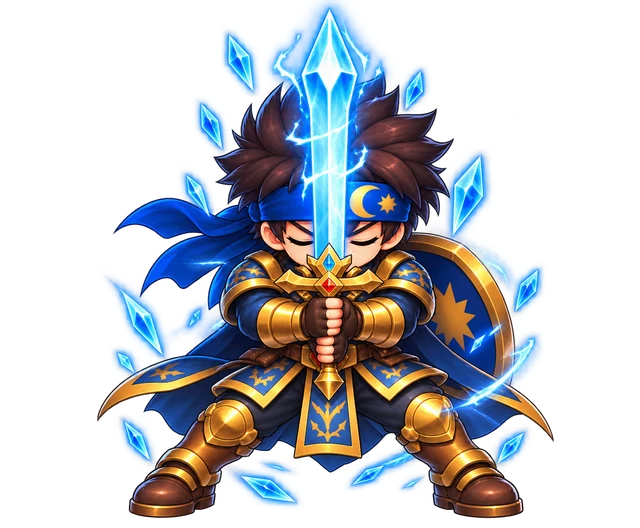
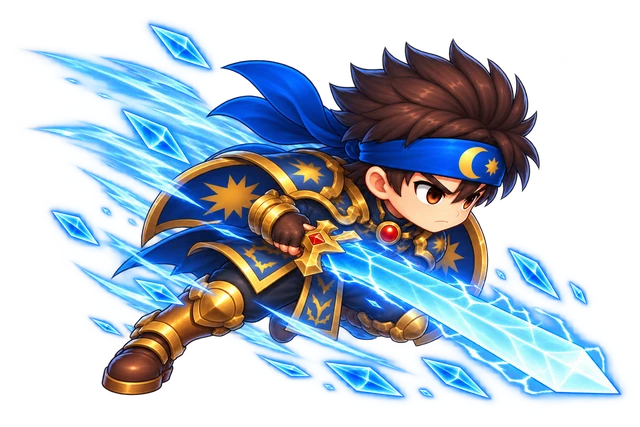
fix: remap Wira Chibi to original Wira asset slots

diff --git a/index.html b/index.html
@@ -8,8 +8,8 @@
 <meta name="apple-mobile-web-app-capable" content="yes">
 <meta name="apple-mobile-web-app-status-bar-style" content="black-translucent">
 <meta name="apple-mobile-web-app-title" content="Pahlawan Angka"><link rel="manifest" href="manifest.webmanifest?v=3.10.0"><link rel="icon" type="image/png" sizes="32x32" href="assets/icons/pa-32.png?v=3.10.0"><link rel="icon" type="image/png" sizes="64x64" href="assets/icons/pa-64.png?v=3.10.0"><link rel="apple-touch-icon" sizes="180x180" href="assets/icons/pa-180.png?v=3.10.0">
-<title>Pahlawan Angka</title><link rel="stylesheet" href="css/action-variety-v3.30.0.css?v=3.62.10"><link rel="stylesheet" href="css/demo-mode-v3.56.0.css?v=3.56.0"><link rel="stylesheet" href="css/hero-wira-finisher-v1.0.0.css?v=3.62.9"><link rel="stylesheet" href="css/hero-sidma-v1.0.0.css?v=3.60.1"><link rel="stylesheet" href="css/hero-bunga-v2.0.0.css?v=3.59.1"><link rel="stylesheet" href="css/hub-hero-switch-v1.0.0.css?v=3.55.0"><link rel="stylesheet" href="css/effort-restu-v3.32.0.css?v=3.32.0"><link rel="stylesheet" href="css/finisher-auras-v3.8.7.css?v=3.8.7">
-<script defer src="js/action-variety-v3.30.0.js?v=3.62.10"></script><script defer src="js/demo-mode-v3.56.0.js?v=3.57.3"></script><script defer src="js/hero-wira-finisher-v1.0.0.js?v=3.62.9"></script><script defer src="js/hero-sidma-v1.0.0.js?v=3.60.1"></script><script defer src="js/hero-bunga-v2.0.0.js?v=3.59.1"></script><script defer src="js/hub-hero-switch-v1.0.0.js?v=3.62.9"></script><script defer src="js/effort-guard-v3.32.0.js?v=3.32.0"></script><link rel="stylesheet" href="css/finisher-cinematic-v3.8.8.css?v=3.8.16"><link rel="stylesheet" href="css/cloud-auth-v3.15.0.css?v=3.16.6">
+<title>Pahlawan Angka</title><link rel="stylesheet" href="css/action-variety-v3.30.0.css?v=3.62.11"><link rel="stylesheet" href="css/demo-mode-v3.56.0.css?v=3.56.0"><link rel="stylesheet" href="css/hero-wira-finisher-v1.0.0.css?v=3.62.9"><link rel="stylesheet" href="css/hero-sidma-v1.0.0.css?v=3.60.1"><link rel="stylesheet" href="css/hero-bunga-v2.0.0.css?v=3.59.1"><link rel="stylesheet" href="css/hub-hero-switch-v1.0.0.css?v=3.55.0"><link rel="stylesheet" href="css/effort-restu-v3.32.0.css?v=3.32.0"><link rel="stylesheet" href="css/finisher-auras-v3.8.7.css?v=3.8.7">
+<script defer src="js/action-variety-v3.30.0.js?v=3.62.11"></script><script defer src="js/demo-mode-v3.56.0.js?v=3.57.3"></script><script defer src="js/hero-wira-finisher-v1.0.0.js?v=3.62.9"></script><script defer src="js/hero-sidma-v1.0.0.js?v=3.60.1"></script><script defer src="js/hero-bunga-v2.0.0.js?v=3.59.1"></script><script defer src="js/hub-hero-switch-v1.0.0.js?v=3.62.9"></script><script defer src="js/effort-guard-v3.32.0.js?v=3.32.0"></script><link rel="stylesheet" href="css/finisher-cinematic-v3.8.8.css?v=3.8.16"><link rel="stylesheet" href="css/cloud-auth-v3.15.0.css?v=3.16.6">
 <script defer src="https://cdn.jsdelivr.net/npm/@supabase/supabase-js@2.111.0/dist/umd/supabase.min.js" crossorigin="anonymous"></script><link rel="stylesheet" href="css/beta-trust-v3.29.0.css?v=3.29.0">
 <script defer src="js/beta-trust-v3.29.0.js?v=3.29.0"></script><script defer src="js/qsv2-beta-rollout-v3.42.0.js?v=3.52.0"></script><script defer src="js/cloud.js?v=3.56.0"></script><script defer src="js/qsv2-shadow-sync-v3.37.0.js?v=3.37.0"></script><script defer src="js/qsv2-pilot-sync-v3.40.0.js?v=3.40.0"></script><script defer src="js/commercial-foundation-v3.25.0.js?v=3.53.0"></script><script defer src="js/guardian-onboarding-v3.25.1.js?v=3.62.9"></script><script defer src="js/custom-picker-v3.25.6.js?v=3.25.6"></script><link rel="stylesheet" href="css/google-auth-v3.25.2.css?v=3.25.2"><link rel="stylesheet" href="css/parent-dashboard-v3.25.4.css?v=3.25.4"><link rel="stylesheet" href="css/kssr-question-v3.9.0.css?v=3.10.0"><link rel="stylesheet" href="css/visual-coach-v3.16.0.css?v=3.17.0"><link rel="stylesheet" href="css/hint-overlay-v3.28.1.css?v=3.28.1"><link rel="stylesheet" href="css/commercial-foundation-v3.25.0.css?v=3.53.0"><link rel="stylesheet" href="css/guardian-onboarding-v3.25.1.css?v=3.26.4"><link rel="stylesheet" href="css/parent-pin-recovery-v3.27.3.css?v=3.27.3"><link rel="stylesheet" href="css/game.css?v=3.14.1"><link rel="stylesheet" href="css/phase-3.6.4.css"><link rel="stylesheet" href="css/phase-3.6.6.css?v=3.6.7"><link rel="stylesheet" href="css/phase-3.6.8-animation.css?v=3.6.9"><link rel="stylesheet" href="css/login-buttons-v3.7.1.css?v=3.7.1"><link rel="stylesheet" href="css/battlefield-motion-v3.7.2.css?v=3.7.2"><link rel="stylesheet" href="css/battlefield-depth-v3.7.3.css?v=3.7.3"><link rel="stylesheet" href="css/pet-monster-motion-v3.7.4.css?v=3.7.4"><link rel="stylesheet" href="css/mobile-battle-v3.7.5.css?v=3.7.5"><link rel="stylesheet" href="css/combat-fov-v3.7.6.css?v=3.7.6"><link rel="stylesheet" href="css/battle-flow-v3.7.7.css?v=3.7.7"><link rel="stylesheet" href="css/boss-motion-v3.7.9.css?v=3.8.15"><link rel="stylesheet" href="css/coach-mascot-v3.8.1.css?v=3.8.3"><link rel="stylesheet" href="css/responsive-modes-v3.8.2.css?v=3.8.3"><link rel="stylesheet" href="css/pet-sizing-v3.8.21.css?v=3.8.21"><link rel="stylesheet" href="css/battle-polish-v3.8.22.css?v=3.8.22"><link rel="stylesheet" href="css/battle-scene-v3.8.25.css?v=3.8.25"><link rel="stylesheet" href="css/coach-teaching-v3.8.26.css?v=3.8.26"><link rel="stylesheet" href="css/battle-scene-v3.8.27.css?v=3.8.27"><link rel="stylesheet" href="css/battle-scene-v3.8.28.css?v=3.8.28"><link rel="stylesheet" href="css/pwa-v3.8.29.css?v=3.8.29"><link rel="stylesheet" href="css/guardian-focus-v3.8.30.css?v=3.8.30"><link rel="stylesheet" href="css/hero-pose-normalization-v3.8.31.css?v=3.33.7"><link rel="stylesheet" href="css/battle-fix-v3.9.1.css?v=3.10.0"><link rel="stylesheet" href="css/battle-fix-v3.11.css?v=3.11.0"><link rel="stylesheet" href="css/pet-staging-v3.14.3.css?v=3.14.3"><link rel="stylesheet" href="css/hub-adventure-v3.24.11.css?v=3.24.14"><link rel="stylesheet" href="css/theme-controls-v3.25.5.css?v=3.25.5"><link rel="stylesheet" href="css/custom-picker-v3.25.6.css?v=3.25.6"><link rel="stylesheet" href="css/parent-learning-tools-v3.26.0.css?v=3.26.0"><link rel="stylesheet" href="css/question-card-theme-v1.0.0.css?v=3.55.0"><link rel="stylesheet" href="css/combat-motion-v1.css?v=3.57.5"><link rel="stylesheet" href="css/battle-story-v3.60.0.css?v=3.60.0"></head><body data-screen="login"><div class="app">
 <header class="appHeader"><div class="brand"><span class="brandMark" aria-hidden="true"><img src="assets/icons/pa-64.png?v=3.8.31" alt=""></span><span>Pahlawan Angka</span></div><div class="grow"></div><button id="devQuickBtn" class="devQuickBtn hidden" onclick="openDevPanel()" aria-label="Developer Mode">DEV</button><button class="soundBtn" data-sound-toggle onclick="toggleSound()" aria-label="Bunyi">🔊</button><span class="chip badge">Coach RPG</span></header>
@@ -139,4 +139,4 @@
 <div id="rewardToast" class="rewardToast"></div>
 <div id="guardianFocusOverlay" class="guardianFocusOverlay hidden" role="dialog" aria-modal="true" aria-labelledby="guardianFocusTitle"><div class="guardianFocusCard"><div class="eyebrow">LATIHAN FOKUS PENJAGA</div><h2 id="guardianFocusTitle">Kemahiran</h2><p id="guardianFocusEvidence"></p><p class="guardianFocusNote">Soalan dikunci pada kemahiran ini. Cikgu Dimensi akan beri petunjuk bertingkat dan turun kepada contoh lebih mudah apabila perlu.</p><div class="focusCount" aria-label="Bilangan soalan"><button type="button" data-focus-count="5" onclick="chooseGuardianCount(5)">5 soalan</button><button type="button" data-focus-count="10" onclick="chooseGuardianCount(10)">10 soalan</button><button type="button" data-focus-count="15" onclick="chooseGuardianCount(15)">15 soalan</button></div><div class="guardianFocusActions"><button class="btn primary" onclick="startGuardianFocus()">Mulakan latihan</button><button class="btn ghost" onclick="closeGuardianFocus()">Batal</button></div></div></div>
 </div>
-<script src="data/kssr/knowledge-graph.js?v=3.10.0"></script><script src="data/kssr/mastery-knowledge-v1.js?v=3.10.0"></script><script src="data/kssr/alignment-v3.9.0.js?v=3.10.0"></script><script src="data/kssr/d3-topic7-curriculum-correction-v3.38.0.js?v=3.38.0"></script><script src="data/kssr/d3-topic7-evidence-epoch-v3.39.0.js?v=3.39.0"></script><script src="data/kssr/d3-topic7-live-cutover-v3.40.0.js?v=3.52.0"></script><script src="data/kssr/d3-nonT7-live-isolation-v1.0.0.js?v=3.52.0"></script><script src="questions/helpers.js?v=3.56.5"></script><script src="questions/d1/core.js?v=3.10.0"></script><script src="questions/d2/topic-1.js"></script><script src="questions/d2/topic-2.js"></script><script src="questions/d2/topic-3.js"></script><script src="questions/d2/topic-4.js"></script><script src="questions/d2/topic-5.js?v=3.56.3"></script><script src="questions/d2/topic-6.js"></script><script src="questions/d2/topic-7.js"></script><script src="questions/d2/topic-8.js"></script><script src="questions/d3/core.js?v=3.8.0"></script><script src="questions/d4/core.js?v=3.8.0"></script><script src="questions/d5/core.js?v=3.14.5"></script><script src="questions/d6/core.js?v=3.8.30"></script><script src="questions/kssr-archetypes-v3.9.0.js?v=3.12.0"></script><script src="questions/kssr-content-v3.11.js?v=3.55.0"></script><script src="questions/v2/dist/runtime.js?v=3.52.0"></script><script src="questions/v2/engine/d3-rollout.js?v=3.52.0"></script><script src="questions/v2/engine/legacy-adapter.js?v=3.52.0"></script><script src="questions/index.js?v=3.40.0"></script><script src="js/engine/telemetry.js?v=3.56.0"></script><script src="js/engine/intervention.js?v=3.57.1"></script><script src="js/engine/frontier.js?v=3.57.1"></script><script src="js/engine/adaptive.js?v=3.62.7"></script><script src="js/heroes.js?v=3.62.10"></script><script src="js/progression.js?v=3.62.9"></script><script src="js/rewards-v2.js?v=3.14.3"></script><script src="js/learning.js?v=3.56.3"></script><script src="js/audio.js?v=3.52.9"></script><script src="js/combat-motion-v1.js?v=3.62.10"></script><script src="js/battle.js?v=3.62.10"></script><script src="js/parent.js?v=3.57.1"></script><script src="js/parent-learning-tools-v3.26.0.js?v=3.56.5"></script><script src="js/guardian-focus.js?v=3.57.3"></script><script src="js/app.js?v=3.62.9"></script><script src="js/battle-story-v3.60.0.js?v=3.60.0"></script><script src="js/phase-3.6.4.js"></script><script src="js/dev-cikgu-dimensi-v3.24.10.js"></script><script src="js/dev-qsv2-v3.36.0.js?v=3.36.0"></script><script src="js/dev-qsv2-live-v3.40.0.js?v=3.52.0"></script><script src="js/version.js?v=3.62.10"></script><script src="js/pwa.js?v=3.62.10"></script></body></html>
+<script src="data/kssr/knowledge-graph.js?v=3.10.0"></script><script src="data/kssr/mastery-knowledge-v1.js?v=3.10.0"></script><script src="data/kssr/alignment-v3.9.0.js?v=3.10.0"></script><script src="data/kssr/d3-topic7-curriculum-correction-v3.38.0.js?v=3.38.0"></script><script src="data/kssr/d3-topic7-evidence-epoch-v3.39.0.js?v=3.39.0"></script><script src="data/kssr/d3-topic7-live-cutover-v3.40.0.js?v=3.52.0"></script><script src="data/kssr/d3-nonT7-live-isolation-v1.0.0.js?v=3.52.0"></script><script src="questions/helpers.js?v=3.56.5"></script><script src="questions/d1/core.js?v=3.10.0"></script><script src="questions/d2/topic-1.js"></script><script src="questions/d2/topic-2.js"></script><script src="questions/d2/topic-3.js"></script><script src="questions/d2/topic-4.js"></script><script src="questions/d2/topic-5.js?v=3.56.3"></script><script src="questions/d2/topic-6.js"></script><script src="questions/d2/topic-7.js"></script><script src="questions/d2/topic-8.js"></script><script src="questions/d3/core.js?v=3.8.0"></script><script src="questions/d4/core.js?v=3.8.0"></script><script src="questions/d5/core.js?v=3.14.5"></script><script src="questions/d6/core.js?v=3.8.30"></script><script src="questions/kssr-archetypes-v3.9.0.js?v=3.12.0"></script><script src="questions/kssr-content-v3.11.js?v=3.55.0"></script><script src="questions/v2/dist/runtime.js?v=3.52.0"></script><script src="questions/v2/engine/d3-rollout.js?v=3.52.0"></script><script src="questions/v2/engine/legacy-adapter.js?v=3.52.0"></script><script src="questions/index.js?v=3.40.0"></script><script src="js/engine/telemetry.js?v=3.56.0"></script><script src="js/engine/intervention.js?v=3.57.1"></script><script src="js/engine/frontier.js?v=3.57.1"></script><script src="js/engine/adaptive.js?v=3.62.7"></script><script src="js/heroes.js?v=3.62.11"></script><script src="js/progression.js?v=3.62.9"></script><script src="js/rewards-v2.js?v=3.14.3"></script><script src="js/learning.js?v=3.56.3"></script><script src="js/audio.js?v=3.52.9"></script><script src="js/combat-motion-v1.js?v=3.62.11"></script><script src="js/battle.js?v=3.62.11"></script><script src="js/parent.js?v=3.57.1"></script><script src="js/parent-learning-tools-v3.26.0.js?v=3.56.5"></script><script src="js/guardian-focus.js?v=3.57.3"></script><script src="js/app.js?v=3.62.9"></script><script src="js/battle-story-v3.60.0.js?v=3.60.0"></script><script src="js/phase-3.6.4.js"></script><script src="js/dev-cikgu-dimensi-v3.24.10.js"></script><script src="js/dev-qsv2-v3.36.0.js?v=3.36.0"></script><script src="js/dev-qsv2-live-v3.40.0.js?v=3.52.0"></script><script src="js/version.js?v=3.62.11"></script><script src="js/pwa.js?v=3.62.11"></script></body></html>

diff --git a/js/combat-motion-v1.js b/js/combat-motion-v1.js
@@ -3,13 +3,9 @@
 (()=>{
  'use strict';
  const byId=id=>document.getElementById(id),cache=new Map();
- const paths={idle:'assets/heroes/wira/idle.webp',ready:'assets/heroes/wira/frames/anticipation-v1.webp',move:'assets/heroes/wira/attack.webp',follow:'assets/heroes/wira/frames/follow-through-v1.webp'};
- const chibiPaths={idle:'assets/heroes/wira-chibi/idle.webp',ready:'assets/heroes/wira-chibi/frames/anticipation-v1.webp',move:'assets/heroes/wira-chibi/attack.webp',follow:'assets/heroes/wira-chibi/frames/follow-through-v1.webp'};
- const contactPaths={
-  wira:{dash:'assets/heroes/wira/frames/attack-dash-v2.webp',arc:'assets/heroes/wira/frames/attack-arc-v2.webp',pulse:'assets/heroes/wira/frames/attack-pulse-v2.webp'},
-  wirachibi:{dash:'assets/heroes/wira-chibi/frames/attack-dash-v2.webp',arc:'assets/heroes/wira-chibi/frames/attack-arc-v2.webp',pulse:'assets/heroes/wira-chibi/frames/attack-pulse-v2.webp'}
- };
- const art={},chibiArt={},wiraContacts={},chibiContacts={},sidmaArt={};let canvas,ctx,active=null,raf=0,observer;
+ const paths={idle:'assets/heroes/wira/idle.webp',ready:'assets/heroes/wira/frames/anticipation-v1.webp',strike:'assets/heroes/wira/frames/attack-arc-v2.webp',follow:'assets/heroes/wira/frames/follow-through-v1.webp'};
+ const chibiPaths={idle:'assets/heroes/wira-chibi/idle.webp',ready:'assets/heroes/wira-chibi/frames/anticipation-v1.webp',strike:'assets/heroes/wira-chibi/frames/attack-arc-v2.webp',follow:'assets/heroes/wira-chibi/frames/follow-through-v1.webp'};
+ const art={},chibiArt={},sidmaArt={};let canvas,ctx,active=null,raf=0,observer;
  const sidmaPaths={idle:'assets/heroes/sidma/idle.webp',ready:'assets/heroes/sidma/frames/attack-stance-v1.webp',dash:'assets/heroes/sidma/frames/skill2-dash-v1.webp',strike:'assets/heroes/sidma/frames/skill2-impact-v1.webp',follow:'assets/heroes/sidma/frames/recovery-v1.webp',cast:'assets/heroes/sidma/frames/cast-start-v1.webp',release:'assets/heroes/sidma/frames/release-v1.webp'};
  // Rumus Sigma's bolt. Kept out of the pose set so a slow decode delays the
  // projectile only, never the whole attack.
@@ -33,17 +29,15 @@
  }
  Object.entries(paths).forEach(([key,src])=>art[key]=load(src));
  Object.entries(chibiPaths).forEach(([key,src])=>chibiArt[key]=load(src));
- Object.entries(contactPaths.wira).forEach(([key,src])=>wiraContacts[key]=load(src));
- Object.entries(contactPaths.wirachibi).forEach(([key,src])=>chibiContacts[key]=load(src));
  Object.entries(sidmaPaths).forEach(([key,src])=>sidmaArt[key]=load(src));
  sidmaBolt=load(sidmaBoltPath);
  function ensure(){
   const arena=byId('battleArena');if(!arena)return null;
   if(!canvas){canvas=document.createElement('canvas');canvas.className='paCombatMotion';canvas.setAttribute('aria-hidden','true');arena.appendChild(canvas);ctx=canvas.getContext('2d');}
-  const rect=arena.getBoundingClientRect(),ratio=Math.min(window.devicePixelRatio||1,2);
+  const rect=arena.getBoundingClientRect(),ratio=Math.min(window.devicePixelRatio||1,3);
   const width=arena.clientWidth,height=arena.clientHeight;
   if(canvas.width!==Math.round(width*ratio)||canvas.height!==Math.round(height*ratio)){canvas.width=Math.round(width*ratio);canvas.height=Math.round(height*ratio)}
-  ctx.setTransform(ratio,0,0,ratio,0,0);
+  ctx.setTransform(ratio,0,0,ratio,0,0);ctx.imageSmoothingEnabled=true;if('imageSmoothingQuality' in ctx)ctx.imageSmoothingQuality='high';
   return {arena,rect,width,height};
  }
  function clear(){if(ctx)ctx.clearRect(0,0,canvas.width,canvas.height)}
@@ -57,7 +51,7 @@
   return {x:left+asset.w*scale/2,y:top+asset.h*scale,h:asset.h*scale,w:asset.w*scale};
  }
  function shadow(x,y,w,h,opacity){ctx.save();ctx.globalAlpha=opacity;ctx.translate(x,y);ctx.scale(Math.max(1,w),Math.max(1,h));const g=ctx.createRadialGradient(0,0,0,0,0,1);g.addColorStop(0,'#020b12');g.addColorStop(.38,'#020b12b0');g.addColorStop(1,'#020b1200');ctx.fillStyle=g;ctx.beginPath();ctx.arc(0,0,1,0,Math.PI*2);ctx.fill();ctx.restore()}
- const feet={idle:[[.19,.96],[.85,.99]],ready:[[.28,.99],[.71,.97]],move:[[.12,.98],[.68,.96]],strike:[[.16,.99],[.77,.98]],follow:[[.05,.99],[.47,.95]]};
+ const feet={idle:[[.19,.96],[.85,.99]],ready:[[.28,.99],[.71,.97]],strike:[[.16,.99],[.77,.98]],follow:[[.05,.99],[.47,.95]]};
  function grounded(a,p,pose){
   if(!a?.ready||!p)return;const w=p.h*a.w/a.h,s=p.h/290;
   shadow(p.x,p.y-3*s,w*.42,14*s,.3);
@@ -128,13 +122,9 @@
   const pet=byId('battlePet'),hasPet=!!(pet&&!pet.classList.contains('hidden')&&db.rewards?.equippedPet);
   if(hasPet&&isWira(key))return null;
   sync();const scene=ensure(),enemyImg=byId('enemySprite'),enemyArt=load(enemyImg?.currentSrc||enemyImg?.getAttribute('src'));
-  const contacts=key==='wirachibi'?chibiContacts:wiraContacts;
-  const baseReady=Object.values(set).every(a=>a.ready),contactsReady=!isWira(key)||Object.values(contacts).every(a=>a.ready);
-  if(!scene||!baseReady||!contactsReady||!enemyArt?.ready)return null;
+  if(!scene||!Object.values(set).every(a=>a.ready)||!enemyArt?.ready)return null;
   const hero=heroGeometry(scene),enemy=geometry(enemyImg,enemyArt,scene);if(!hero||!enemy)return null;
   const heroAttacks=attackerId==='hero'&&targetId==='enemy';if(!heroAttacks&&!(attackerId==='enemy'&&targetId==='hero'))return null;
-  const variant=heroAttacks&&isWira(key)?(window.PAActionVariety?.pick?.(key)||{id:'dash'}):null;
-  const renderSet=variant?{...set,strike:contacts[variant.id]||contacts.dash}:set;
   const enemyFrames=['enemyAnticipation','enemyAttack','enemyFollowThrough'].map(id=>{const img=byId(id);return load(img?.currentSrc||img?.getAttribute('src'))});
   const lead=heroAttacks&&hasPet?420:0;
   // Sidma alternates Rumus Sigma (stationary cast) and Jejak Sigma (dash).
@@ -144,7 +134,7 @@
   const contactDelay=(heroAttacks?(key==='sidma'?sidmaContact:470):390)+lead;
   const completionDelay=(heroAttacks?(ranged?1500:1400):1100)+lead;
   const min=matchMedia('(prefers-reduced-motion: reduce)').matches;
-  const requestedDamage=Number(damageAmount),visualDamage=heroAttacks&&(Number.isFinite(requestedDamage)?Math.max(0,requestedDamage):4);active={hero,enemy,enemyArt,enemyFrames,heroAttacks,scene,min,contactDelay,completionDelay,start:performance.now(),damage:heroAttacks?visualDamage:3,impacted:false,key,set:renderSet,lead,ranged,variant:variant?.id||null};
+  const requestedDamage=Number(damageAmount),visualDamage=heroAttacks&&(Number.isFinite(requestedDamage)?Math.max(0,requestedDamage):4);active={hero,enemy,enemyArt,enemyFrames,heroAttacks,scene,min,contactDelay,completionDelay,start:performance.now(),damage:heroAttacks?visualDamage:3,impacted:false,key,set,lead,ranged};
   if(heroAttacks&&key==='sidma')window.PASidmaBattle?.advanceNormalSkill?.();
   scene.arena.classList.add('paMotionActive');
   if(lead&&typeof triggerPetFollowUp==='function')triggerPetFollowUp(byId('enemy'),0);
@@ -185,14 +175,14 @@
    if(hit>=0&&!a.min)enemy.x+=12*s*Math.exp(-hit/190)*Math.sin(Math.min(hit/60,1)*Math.PI/2);
    if(a.lead&&elapsed>=360&&elapsed<580&&!a.min)enemy.x+=5*s*Math.exp(-(elapsed-360)/100);
   }else if(a.heroAttacks){
-   // Wira family uses the same four semantic beats. Wira Chibi only swaps art.
-   // #3 anticipation -> #2 attack/movement -> #5/#4/#6 contact -> #7 follow-through.
-   if(t<180){pose='ready';hero.x-=a.min?0:6*s*ease(t/180)}
-   else if(t<430){pose='move';hero.x+=a.min?0:mix(-6*s,travel,ease((t-180)/250))}
-   else if(t<620){pose='strike';hero.x+=a.min?0:travel}
-   else if(t<900){pose='follow';hero.x+=a.min?0:travel}
-   else{pose='follow';hero.x+=a.min?0:travel*(1-ease((t-900)/470))}
-   const strikeT=clamp((t-390)/220),bump=Math.max(0,1-Math.pow(2*strikeT-1,2));
+   if(t<220){pose='ready';hero.x-=a.min?0:6*s*ease(t/220)}
+   else if(t<470){pose='ready';hero.x+=a.min?0:mix(-6*s,travel,ease((t-220)/250))}
+   else if(t<550){pose='strike';hero.x+=a.min?0:travel}
+   else if(t<850){pose='follow';hero.x+=a.min?0:travel}
+   else hero.x+=a.min?0:travel*(1-ease((t-850)/470));
+   // Squash-emphasis on the strike beat, ramped continuously across a window
+   // straddling the pose cut so the scale never jumps in lockstep with it.
+   const strikeT=clamp((t-420)/180),bump=Math.max(0,1-Math.pow(2*strikeT-1,2));
    hero.h*=1+(20/290)*bump;
    if(hit>=0&&!a.min)enemy.x+=12*s*Math.exp(-hit/190)*Math.sin(Math.min(hit/60,1)*Math.PI/2);
   }else{

diff --git a/css/action-variety-v3.30.0.css b/css/action-variety-v3.30.0.css
@@ -28,25 +28,18 @@ body.hero-bunga #game #hero.pa-attack-spiral.attacking .sprite{animation-name:pa
 /* Three distinct readable phases: stance -> movement -> actual strike. */
 #game #hero .hero-frame-strike{top:auto!important;bottom:0!important;height:var(--pa-hero-h)!important;width:auto!important;max-width:none!important;object-fit:contain!important;object-position:center bottom!important;opacity:0!important;transform-origin:50% 100%!important}
 #game #hero.phase-movement .hero-frame-anticipation{opacity:0!important}
-#game #hero.phase-movement .hero-frame-attack{visibility:visible!important;opacity:1!important}
-#game #hero.phase-movement .hero-frame-follow-through{opacity:0!important}
+#game #hero.phase-movement .hero-frame-attack{opacity:0!important}
+#game #hero.phase-movement .hero-frame-follow-through{visibility:visible!important;opacity:1!important}
 #game #hero.phase-movement .hero-frame-strike{opacity:0!important}
 #game #hero.phase-contact:not(.charging-finisher) .hero-frame-attack{opacity:0!important}
-#game #hero.phase-contact:not(.charging-finisher) .hero-frame-follow-through{opacity:0!important}
 #game #hero.phase-contact:not(.charging-finisher) .hero-frame-strike{visibility:visible!important;opacity:1!important}
-#game #hero.phase-follow-through .hero-frame-anticipation{opacity:0!important}
-#game #hero.phase-follow-through .hero-frame-attack{opacity:0!important}
-#game #hero.phase-follow-through .hero-frame-strike{opacity:0!important}
-#game #hero.phase-follow-through .hero-frame-follow-through{visibility:visible!important;opacity:1!important}
 #game #hero.charging-finisher.phase-contact .hero-frame-attack{opacity:1!important}
 #game #hero.charging-finisher.phase-contact .hero-frame-strike{opacity:0!important}
 #game #hero .hero-frame-strike{left:calc(50% + var(--pa-contact-shift-x,0px))!important;transform:translateX(-50%) scale(var(--pa-contact-scale,1))!important;transform-origin:50% 100%!important}
 
 /* DEV Attack Lab */
-.paAttackLab{position:fixed;inset:0;z-index:260;display:none;place-items:center;padding:16px}.paAttackLab.show{display:grid}.paAttackLabShade{position:absolute;inset:0;background:rgba(2,8,20,.88);backdrop-filter:blur(8px)}.paAttackLabPanel{position:relative;width:min(620px,100%);max-height:94dvh;overflow:auto;padding:18px;border:1px solid #3d5f8d;border-radius:24px;background:linear-gradient(180deg,#122743,#081526);box-shadow:0 24px 70px #000b;color:#fff}.paAttackLabHead{display:flex;align-items:center;justify-content:space-between}.paAttackLabHead small{font-size:10px;font-weight:950;letter-spacing:.12em;color:#f3c955}.paAttackLabHead h2{margin:3px 0 0}.paAttackLabHead>button{width:42px;height:42px;border:1px solid #456083;border-radius:14px;background:#12213a;color:#fff;font-size:28px}.paAttackLabControls{display:grid;grid-template-columns:auto auto auto 1fr;gap:7px;margin:15px 0}.paAttackLabControls button,.paAttackLabControls select,.paAttackLabSteps button{border:1px solid #3a5579;border-radius:12px;background:#0d1d34;color:#dce8fb;font:inherit;font-weight:850;padding:10px}.paAttackLabControls button.active{border-color:#f0bd39;background:#3e3215;color:#ffe479}.paAttackLabStage{position:relative;height:min(42dvh,330px);display:grid;place-items:center;overflow:hidden;border:1px solid #29486f;border-radius:18px;background:radial-gradient(circle at 50% 58%,#1c4265,#081626 72%)}.paAttackLabGround{position:absolute;left:12%;right:12%;bottom:9%;height:12px;border-radius:50%;background:radial-gradient(ellipse,#000a,transparent 72%)}.paAttackLabStage img{position:absolute;bottom:9%;width:88%;height:86%;object-fit:contain;object-position:center bottom;filter:drop-shadow(0 8px 7px #000b);transition:opacity .08s,transform .16s}.paAttackLabStage img[data-step="movement"]{transform:translateX(7%)}.paAttackLabStage img[data-step="strike"]{transform:translateX(10%)}.paAttackLabSteps{display:grid;grid-template-columns:repeat(4,1fr);gap:7px;margin:10px 0}.paAttackLabSteps button{display:flex;flex-direction:column;align-items:center;gap:3px}.paAttackLabSteps b{display:grid;place-items:center;width:25px;height:25px;border-radius:50%;background:#f0bd39;color:#172033}.paAttackLabSteps span{font-size:10px}.paAttackLabPlay{width:100%}.paAttackLabPanel>p{margin:10px 0 0;text-align:center;color:#b8c7df;font-size:12px}
+.paAttackLab{position:fixed;inset:0;z-index:260;display:none;place-items:center;padding:16px}.paAttackLab.show{display:grid}.paAttackLabShade{position:absolute;inset:0;background:rgba(2,8,20,.88);backdrop-filter:blur(8px)}.paAttackLabPanel{position:relative;width:min(620px,100%);max-height:94dvh;overflow:auto;padding:18px;border:1px solid #3d5f8d;border-radius:24px;background:linear-gradient(180deg,#122743,#081526);box-shadow:0 24px 70px #000b;color:#fff}.paAttackLabHead{display:flex;align-items:center;justify-content:space-between}.paAttackLabHead small{font-size:10px;font-weight:950;letter-spacing:.12em;color:#f3c955}.paAttackLabHead h2{margin:3px 0 0}.paAttackLabHead>button{width:42px;height:42px;border:1px solid #456083;border-radius:14px;background:#12213a;color:#fff;font-size:28px}.paAttackLabControls{display:grid;grid-template-columns:auto auto 1fr;gap:7px;margin:15px 0}.paAttackLabControls button,.paAttackLabControls select,.paAttackLabSteps button{border:1px solid #3a5579;border-radius:12px;background:#0d1d34;color:#dce8fb;font:inherit;font-weight:850;padding:10px}.paAttackLabControls button.active{border-color:#f0bd39;background:#3e3215;color:#ffe479}.paAttackLabStage{position:relative;height:min(42dvh,330px);display:grid;place-items:center;overflow:hidden;border:1px solid #29486f;border-radius:18px;background:radial-gradient(circle at 50% 58%,#1c4265,#081626 72%)}.paAttackLabGround{position:absolute;left:12%;right:12%;bottom:9%;height:12px;border-radius:50%;background:radial-gradient(ellipse,#000a,transparent 72%)}.paAttackLabStage img{position:absolute;bottom:9%;width:88%;height:86%;object-fit:contain;object-position:center bottom;filter:drop-shadow(0 8px 7px #000b);transition:opacity .08s,transform .16s}.paAttackLabStage img[data-step="movement"]{transform:translateX(7%)}.paAttackLabStage img[data-step="strike"]{transform:translateX(10%)}.paAttackLabSteps{display:grid;grid-template-columns:repeat(3,1fr);gap:7px;margin:10px 0}.paAttackLabSteps button{display:flex;flex-direction:column;align-items:center;gap:3px}.paAttackLabSteps b{display:grid;place-items:center;width:25px;height:25px;border-radius:50%;background:#f0bd39;color:#172033}.paAttackLabSteps span{font-size:10px}.paAttackLabPlay{width:100%}.paAttackLabPanel>p{margin:10px 0 0;text-align:center;color:#b8c7df;font-size:12px}
 @media(max-width:480px){.paAttackLabPanel{padding:14px}.paAttackLabControls{grid-template-columns:1fr 1fr}.paAttackLabControls select{grid-column:1/-1}.paAttackLabStage{height:36dvh}}
 .paAttackLabStage img[data-step="strike"]{transform:translateX(10%) scale(var(--pa-lab-contact-scale,1));transform-origin:50% 100%}
 .paAttackLab.bunga-two-phase .paAttackLabSteps{grid-template-columns:repeat(2,1fr)}
 .paAttackLab.bunga-two-phase [data-lab-step="movement"]{display:none}
-
-.paAttackLabStage img[data-step="follow"]{transform:translateX(3%)}

diff --git a/js/action-variety-v3.30.0.js b/js/action-variety-v3.30.0.js
@@ -2,11 +2,13 @@
 (function(){
   const variants={
     wira:[
+      {id:'original',label:'Tebasan Ais Asal',asset:'assets/heroes/wira/attack.webp',bodyScale:1.48,footShiftX:28},
       {id:'dash',label:'Tikaman Pantas',asset:'assets/heroes/wira/frames/attack-dash-v2.webp',bodyScale:1.48,footShiftX:38},
       {id:'arc',label:'Lengkung Nombor',asset:'assets/heroes/wira/frames/attack-arc-v2.webp',bodyScale:1.42,footShiftX:28},
       {id:'pulse',label:'Gelombang Operasi',asset:'assets/heroes/wira/frames/attack-pulse-v2.webp',bodyScale:1.72,footShiftX:40}
     ],
     wirachibi:[
+      {id:'original',label:'Tebasan Ais Chibi',asset:'assets/heroes/wira-chibi/attack.webp',bodyScale:1.48,footShiftX:28},
       {id:'dash',label:'Tikaman Pantas',asset:'assets/heroes/wira-chibi/frames/attack-dash-v2.webp',bodyScale:1.48,footShiftX:38},
       {id:'arc',label:'Lengkung Nombor',asset:'assets/heroes/wira-chibi/frames/attack-arc-v2.webp',bodyScale:1.42,footShiftX:28},
       {id:'pulse',label:'Gelombang Operasi',asset:'assets/heroes/wira-chibi/frames/attack-pulse-v2.webp',bodyScale:1.72,footShiftX:40}
@@ -71,9 +73,9 @@
     const button=document.createElement('button');button.id='devAttackLabBtn';button.className='btn ghost small';button.textContent='🎞 Attack Lab';button.onclick=window.openAttackLab;grid.appendChild(button);
   }
   function labMarkup(){
-    return '<div class="paAttackLabShade"></div><section class="paAttackLabPanel"><div class="paAttackLabHead"><div><small>DEV · FRAME INSPECTOR</small><h2>Attack Lab</h2></div><button type="button" onclick="closeAttackLab()" aria-label="Tutup">×</button></div><div class="paAttackLabControls"><button data-lab-hero="wira" onclick="attackLabHero(\'wira\')">Wira</button><button data-lab-hero="wirachibi" onclick="attackLabHero(\'wirachibi\')">Wira Chibi</button><button data-lab-hero="bunga" onclick="attackLabHero(\'bunga\')">Bunga</button><select id="paAttackLabVariant" onchange="attackLabVariant(this.value)"></select></div><div class="paAttackLabStage"><div class="paAttackLabGround"></div><img id="paAttackLabFrame" alt=""></div><div class="paAttackLabSteps"><button onclick="attackLabStep(\'stance\')"><b>1</b><span>Anticipation</span></button><button data-lab-step="movement" onclick="attackLabStep(\'movement\')"><b>2</b><span>Attack / movement</span></button><button onclick="attackLabStep(\'strike\')"><b>3</b><span>Contact variant</span></button><button data-lab-step="follow" onclick="attackLabStep(\'follow\')"><b>4</b><span>Follow through</span></button></div><button class="btn primary paAttackLabPlay" onclick="playAttackLab()">▶ Main sequence penuh</button><p id="paAttackLabStatus">Pilih frame untuk diperiksa.</p></section>';
+    return '<div class="paAttackLabShade"></div><section class="paAttackLabPanel"><div class="paAttackLabHead"><div><small>DEV · FRAME INSPECTOR</small><h2>Attack Lab</h2></div><button type="button" onclick="closeAttackLab()" aria-label="Tutup">×</button></div><div class="paAttackLabControls"><button data-lab-hero="wira" onclick="attackLabHero(\'wira\')">Wira</button><button data-lab-hero="wirachibi" onclick="attackLabHero(\'wirachibi\')">Wira Chibi</button><button data-lab-hero="bunga" onclick="attackLabHero(\'bunga\')">Bunga</button><select id="paAttackLabVariant" onchange="attackLabVariant(this.value)"></select></div><div class="paAttackLabStage"><div class="paAttackLabGround"></div><img id="paAttackLabFrame" alt=""></div><div class="paAttackLabSteps"><button onclick="attackLabStep(\'stance\')"><b>1</b><span>Attack stance</span></button><button data-lab-step="movement" onclick="attackLabStep(\'movement\')"><b>2</b><span>Movement</span></button><button onclick="attackLabStep(\'strike\')"><b>3</b><span>Actual attack</span></button></div><button class="btn primary paAttackLabPlay" onclick="playAttackLab()">▶ Main sequence penuh</button><p id="paAttackLabStatus">Pilih frame untuk diperiksa.</p></section>';
   }
-  const lab={hero:'wira',variant:'dash',timer:[]};
+  const lab={hero:'wira',variant:'original',timer:[]};
   function labItem(){return (variants[lab.hero]||variants.wira).find(x=>x.id===lab.variant)||(variants[lab.hero]||variants.wira)[0]}
   function clearTimers(){lab.timer.forEach(clearTimeout);lab.timer=[]}
   function renderLabControls(){
@@ -91,10 +93,10 @@
   window.attackLabVariant=function(id){lab.variant=id;window.attackLabStep('strike')};
   window.attackLabStep=function(step){
     clearTimers();if(lab.hero==='bunga'&&step==='movement')step='strike';const h=typeof HEROES!=='undefined'?(HEROES[lab.hero]||HEROES.wira):null,item=labItem(),img=document.getElementById('paAttackLabFrame'),status=document.getElementById('paAttackLabStatus');if(!h||!img)return;
-    const source=step==='stance'?h.anticipation:step==='movement'?h.attack:step==='strike'?item.asset:h.followThrough;
+    const source=step==='stance'?h.anticipation:step==='movement'?h.followThrough:item.asset;
     img.src=source;img.dataset.step=step;img.dataset.hero=lab.hero;
     img.style.setProperty('--pa-lab-contact-scale',step==='strike'?String(item.bodyScale):'1');
-    if(status)status.textContent=step==='stance'?'1 · Anticipation':step==='movement'?'2 · Attack / movement':step==='strike'?'3 · '+item.label+' mengenai sasaran':'4 · Follow through';
+    if(status)status.textContent=step==='stance'?'1 · Bersedia dan mengambil ancang-ancang':step==='movement'?'2 · Bergerak menuju sasaran':'3 · '+item.label+' mengenai sasaran';
   };
   window.playAttackLab=function(){
     clearTimers();window.attackLabStep('stance');
@@ -103,11 +105,10 @@
       lab.timer.push(setTimeout(()=>window.attackLabStep('stance'),1450));
       return;
     }
-    lab.timer.push(setTimeout(()=>window.attackLabStep('movement'),420));
-    lab.timer.push(setTimeout(()=>window.attackLabStep('strike'),760));
-    lab.timer.push(setTimeout(()=>window.attackLabStep('follow'),1080));
-    lab.timer.push(setTimeout(()=>window.attackLabStep('stance'),1500));
+    lab.timer.push(setTimeout(()=>window.attackLabStep('movement'),650));
+    lab.timer.push(setTimeout(()=>window.attackLabStep('strike'),1050));
+    lab.timer.push(setTimeout(()=>window.attackLabStep('stance'),1850));
   };
   if(document.readyState==='loading')document.addEventListener('DOMContentLoaded',ensureAttackLab,{once:true});else ensureAttackLab();
-  window.PAActionVariety={variants,strikeFrame,preloadedFrames,pick};
+  window.PAActionVariety={variants,strikeFrame,preloadedFrames};
 })();

diff --git a/js/battle.js b/js/battle.js
@@ -119,7 +119,7 @@ function triggerImpact(attackerId,targetId,tint,finisher,damageAmount=null){
  const bungaAttacking=attackerId==="hero"&&db?.hero==="bunga"&&!finisher;
  const bungaSkill=bungaAttacking&&window.PABungaBattle?.getNextNormalSkill?.(),bungaSkill2=bungaSkill===2;
  const bungaContact=bungaSkill2?1050:(hasPet?390:500),bungaDuration=bungaSkill2?1420:(hasPet?690:880);
- let attackDuration=(finisher?(wiraFinishing?1780:(sidmaFinishing?1780:(bungaFinishing?1900:1450))):(sidmaAttacking?sidmaDuration:(bungaAttacking?bungaDuration:800)))+heroLead,contactDelay=(finisher?(sidmaFinishing?1430:finisherContact):(sidmaAttacking?sidmaContact:(bungaAttacking?bungaContact:390)))+heroLead,hitDuration=finisher?(wiraFinishing?340:(bungaFinishing?390:(tint==="bloom"?1080:(sidmaFinishing?360:900)))):520,shakeClass=(wiraFinishing||sidmaFinishing||bungaFinishing)?null:(finisher?"finisher-shake":"shake"),tintClass=(wiraFinishing||sidmaFinishing||bungaFinishing)?null:(tint==="red"?"tint-red":(tint==="bloom"?"tint-bloom":"tint-ice")),pulse=(wiraFinishing||sidmaFinishing||bungaFinishing)?null:(tint==="red"?"pulse-red":(tint==="bloom"?"pulse-bloom":"pulse-ice"));
+ let attackDuration=(finisher?(wiraFinishing?1780:(sidmaFinishing?1780:(bungaFinishing?1900:1450))):(sidmaAttacking?sidmaDuration:(bungaAttacking?bungaDuration:720)))+heroLead,contactDelay=(finisher?(sidmaFinishing?1430:finisherContact):(sidmaAttacking?sidmaContact:(bungaAttacking?bungaContact:390)))+heroLead,hitDuration=finisher?(wiraFinishing?340:(bungaFinishing?390:(tint==="bloom"?1080:(sidmaFinishing?360:900)))):520,shakeClass=(wiraFinishing||sidmaFinishing||bungaFinishing)?null:(finisher?"finisher-shake":"shake"),tintClass=(wiraFinishing||sidmaFinishing||bungaFinishing)?null:(tint==="red"?"tint-red":(tint==="bloom"?"tint-bloom":"tint-ice")),pulse=(wiraFinishing||sidmaFinishing||bungaFinishing)?null:(tint==="red"?"pulse-red":(tint==="bloom"?"pulse-bloom":"pulse-ice"));
  if(attackerId==="hero"){
    if(pet&&!pet.classList.contains("hidden")){
      const petRect=pet.getBoundingClientRect(),targetRect=target.getBoundingClientRect();
@@ -147,13 +147,11 @@ function triggerImpact(attackerId,targetId,tint,finisher,damageAmount=null){
    }else{
     if(db?.hero==="bunga"){
      battleLater(()=>{clearHeroPhases();attacker.classList.add("phase-contact")},heroLead+260);
-     battleLater(()=>{clearHeroPhases();attacker.classList.add("phase-recover")},heroLead+620);
     }else{
      battleLater(()=>{clearHeroPhases();attacker.classList.add("phase-movement")},heroLead+140);
      battleLater(()=>{clearHeroPhases();attacker.classList.add("phase-contact")},heroLead+320);
-     battleLater(()=>{clearHeroPhases();attacker.classList.add("phase-follow-through")},heroLead+550);
-     battleLater(()=>{clearHeroPhases();attacker.classList.add("phase-recover")},heroLead+710);
     }
+    battleLater(()=>{clearHeroPhases();attacker.classList.add("phase-recover")},heroLead+620);
    }
  }else if(attacker.dataset.enemyTier==="boss"){
    clearHeroPhases();attacker.classList.add("phase-anticipation");

diff --git a/sw.js b/sw.js
@@ -1,4 +1,4 @@
-// App shell v3.62.10 — Wira family mapping restored: anticipation -> movement -> contact -> follow-through.
+// App shell v3.62.11 — Wira Chibi slot map corrected; Wira runtime unchanged; high-DPI battle canvas.
 importScripts('./js/version.js');
 const CACHE_NAME=`pahlawan-angka-v${self.PA_APP_VERSION}-coach-games-2`;
 const APP_SHELL=[

diff --git a/js/version.js b/js/version.js
@@ -1,6 +1,6 @@
 /* Pahlawan Angka — single source of truth for release version.
    Future releases should bump ONLY this value. */
-globalThis.PA_APP_VERSION='3.62.10';
+globalThis.PA_APP_VERSION='3.62.11';
 
 (function syncVersionUi(){
   if(typeof document==='undefined')return;
